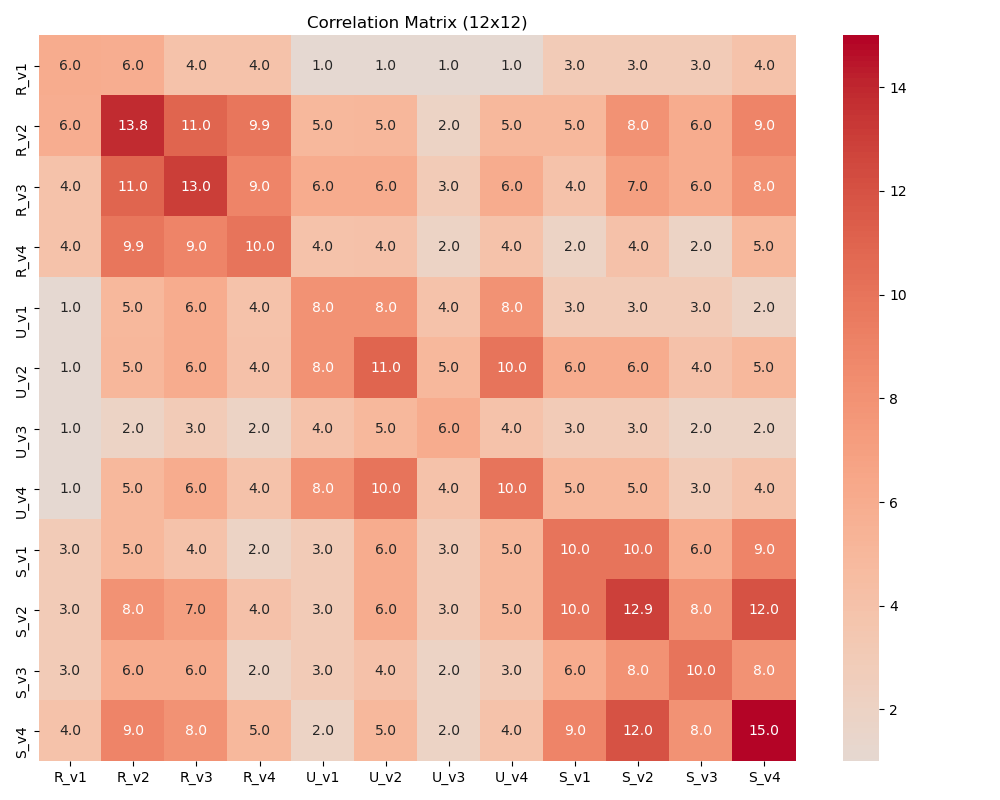
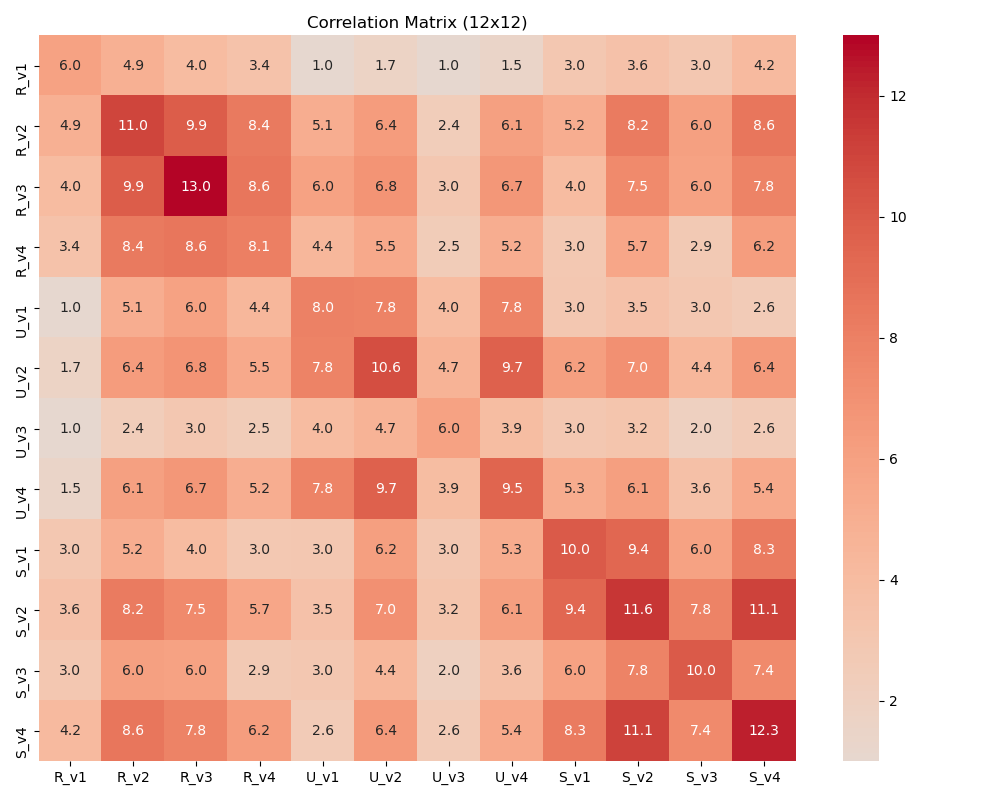
get rid of duplication, merged changes

diff --git a/assignment_4.py b/assignment_4.py
@@ -2,6 +2,7 @@ import numpy as np
 from scipy.ndimage import gaussian_filter
 import seaborn as sns
 import matplotlib.pyplot as plt
+import matplotlib.colors as mcolors
 
 np.random.seed(1)
 
@@ -48,14 +49,14 @@ def create_variations():
     for char_name, char_matrix in characters.items():
         emphasized_strokes_variant = char_matrix.copy()
         if char_name == 'R':
-            emphasized_strokes_variant[2, :4] = 0.9
-            emphasized_strokes_variant[:, 0] = 0.85
+            emphasized_strokes_variant[2, :4] = 0.6
+            emphasized_strokes_variant[:, 0] = 0.6
         elif char_name == 'U':
-            emphasized_strokes_variant[4, 1:4] = 0.9
+            emphasized_strokes_variant[4, 1:4] = 0.6
         elif char_name == 'S':
-            emphasized_strokes_variant[2, 1:4] = 0.85
+            emphasized_strokes_variant[2, 1:4] = 0.6
 
-        blurred_variant = gaussian_filter(char_matrix.astype(float), sigma=0.3)
+        blurred_variant = gaussian_filter(char_matrix.astype(float), sigma=0.5)
         if blurred_variant.max() > 0:
             blurred_variant = blurred_variant / blurred_variant.max()
         blurred_variant = np.clip(blurred_variant, 0, 1)
@@ -67,7 +68,7 @@ def create_variations():
         combined_variant = char_matrix.copy().astype(float)
         combined_noise_mask = np.random.random((5, 5)) < 0.1
         combined_variant[combined_noise_mask] = 1 - combined_variant[combined_noise_mask]
-        combined_variant = gaussian_filter(combined_variant, sigma=0.2)
+        combined_variant = gaussian_filter(combined_variant, sigma=0.5)
         if combined_variant.max() > 0:
             combined_variant = combined_variant / combined_variant.max()
         combined_variant = np.clip(combined_variant, 0, 1)
@@ -235,20 +236,29 @@ def find_undecidable_inputs():
 
 
 def visualize_results(variations, inputs):
+    import matplotlib.colors as mcolors
+
+def visualize_results(variations, inputs):
+    # Define a custom black–gray colormap (e.g., black to 70% gray)
+
     fig, axes = plt.subplots(NUM_CHARS, NUM_VARIATIONS_PER_CHAR + 1, figsize=(12, 8))
+
     for char_idx, char_name in enumerate(CHAR_NAMES):
-        axes[char_idx, 0].imshow(characters[char_name], cmap='gray', vmin=0, vmax=1)
+        # Original character
+        axes[char_idx, 0].imshow(characters[char_name], cmap = 'Greys', vmin=0, vmax=1)
         axes[char_idx, 0].set_title(f'{char_name} (Original)')
         axes[char_idx, 0].axis('off')
 
+        # Variants
         for var_idx, variation_matrix in enumerate(variations[char_name]):
-            axes[char_idx, var_idx+1].imshow(variation_matrix, cmap='gray', vmin=0, vmax=1)
+            axes[char_idx, var_idx+1].imshow(variation_matrix, cmap = 'Greys', vmin=0, vmax=1)
             axes[char_idx, var_idx+1].set_title(f'Var {var_idx+1}')
             axes[char_idx, var_idx+1].axis('off')
 
-    plt.suptitle('Characters and Variations')
+    plt.suptitle('Characters and Variations', fontsize=16)
     plt.tight_layout()
     plt.savefig('characters.png')
+    plt.show()
 
     fig, ax = plt.subplots(figsize=(10, 8))
     sns.heatmap(correlation_matrix, annot=True, fmt='.1f',
@@ -289,8 +299,10 @@ def visualize_results(variations, inputs):
 if __name__ == "__main__":
     character_variations = create_variations()
     flattened_inputs = create_inputs(character_variations)
+
     correlation_matrix = compute_correlation_matrix(flattened_inputs)
     analyze_correlation()
+    
     neural_network_matrix = create_nn1(character_variations)
     classification_scores = visualize_results(character_variations, flattened_inputs)
 
